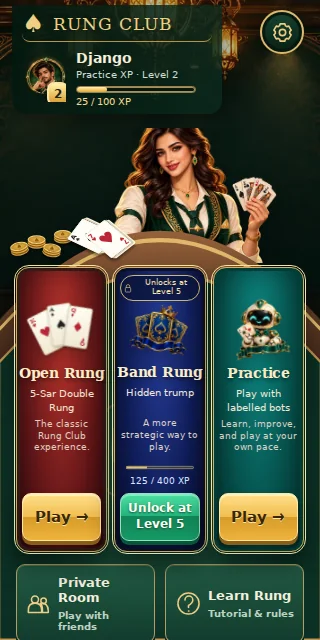
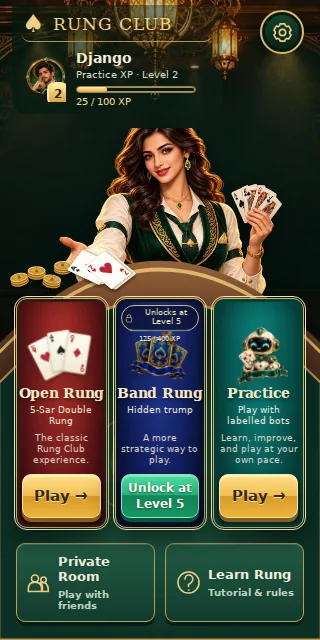
Match lobby reference proportions with compact cards and fuller dealer composition

diff --git a/tests/visual/lobby-redesign.spec.ts b/tests/visual/lobby-redesign.spec.ts
@@ -2,4 +2,4 @@ import {test as base,expect} from '@playwright/test';
 import fs from 'node:fs';
 const test=process.env.BROWSER_EXECUTABLE_PATH?base.extend({context:async({playwright},use)=>{const browser=await playwright.chromium.launch({executablePath:process.env.BROWSER_EXECUTABLE_PATH,args:['--no-sandbox','--disable-dev-shm-usage','--disable-gpu','--single-process','--no-zygote','--disable-software-rasterizer']});const context=await browser.newContext({baseURL:'http://127.0.0.1:5173'});await use(context);await browser.close();}}):base;
 const out='docs/art/qa-lobby-redesign';fs.mkdirSync(out,{recursive:true});
-for(const [width,height] of [[1920,1080],[1366,768],[412,924],[390,844],[360,800],[320,640],[844,390],[932,430]])test(`lobby redesigned ${width}x${height}`,async({page})=>{await page.addInitScript(()=>{localStorage.setItem('welcome','1');localStorage.setItem('profile',JSON.stringify({name:'Django',xp:125,matches:4,wins:2}));});await page.setViewportSize({width,height});await page.goto('/');await page.getByRole('button',{name:'Play as a Guest'}).click();await expect(page.locator('.game-tile')).toHaveCount(3);await expect(page.locator('.club-banner')).toHaveCount(0);await expect(page.getByRole('progressbar',{name:'Level progress'})).toHaveAttribute('aria-valuenow','25');await expect(page.getByRole('progressbar',{name:'Band Rung unlock progress'})).toHaveAttribute('value','125');await expect.poll(()=>page.locator('.lobby-mode-art').evaluateAll((els:HTMLImageElement[])=>els.every(img=>img.complete&&img.naturalWidth>0))).toBe(true);await page.mouse.move(0,0);await page.waitForTimeout(350);await page.screenshot({path:`${out}/${width}x${height}.png`,fullPage:true});expect(await page.evaluate(()=>document.documentElement.scrollWidth<=innerWidth&&document.documentElement.scrollHeight<=innerHeight+1)).toBe(true);await expect(page.locator('.lobby-arrangement')).toHaveCSS('overflow-x','visible');const surface=await page.locator('.lobby-table-front').boundingBox();expect(surface!.x).toBeLessThanOrEqual(1);expect(surface!.x+surface!.width).toBeGreaterThanOrEqual(width-1);for(const card of await page.locator('.table-deck img').all()){const box=await card.boundingBox();expect(box!.x).toBeGreaterThanOrEqual(0);expect(box!.y+box!.height).toBeLessThanOrEqual(height-4);}for(const art of await page.locator('.lobby-mode-art').all())expect((await art.boundingBox())!.height).toBeGreaterThan(45);for(const title of await page.locator('.mode-tile h2').all()){const b=await title.boundingBox(),panel=await title.locator('..').locator('..').boundingBox();expect(b!.x).toBeGreaterThanOrEqual(panel!.x-1);expect(b!.x+b!.width).toBeLessThanOrEqual(panel!.x+panel!.width+1);}for(const description of await page.locator('.mode-description').all())await expect(description).toBeVisible();for(const name of ['Play Open Rung','Unlock Level 5','Practice table']){const button=page.getByRole('button',{name,exact:true});await expect(button).toBeInViewport();expect((await button.boundingBox())!.height).toBeGreaterThanOrEqual(44);}for(const name of ['Your profile','Settings','Learn the art of Rung'])await expect(page.getByRole('button',{name,exact:true})).toBeInViewport();await expect(page.getByRole('button',{name:'Private Room',exact:false})).toBeInViewport();const host=await page.locator('.lobby-host .dealer').boundingBox();expect(host!.width).toBeGreaterThan(100);await page.getByRole('button',{name:'Unlock Level 5',exact:true}).click();await expect(page.getByRole('dialog',{name:'Band Rung locked'})).toBeVisible();await page.getByRole('button',{name:'Back to the lobby',exact:true}).click();await page.getByRole('button',{name:'Private Room',exact:false}).click();await expect(page.getByLabel('Room code')).toBeVisible();});
+for(const [width,height] of [[1920,1080],[1366,768],[412,924],[390,844],[360,800],[320,640],[844,390],[932,430]])test(`lobby redesigned ${width}x${height}`,async({page})=>{await page.addInitScript(()=>{localStorage.setItem('welcome','1');localStorage.setItem('profile',JSON.stringify({name:'Django',xp:125,matches:4,wins:2}));});await page.setViewportSize({width,height});await page.goto('/');await page.getByRole('button',{name:'Play as a Guest'}).click();await expect(page.locator('.game-tile')).toHaveCount(3);await expect(page.locator('.club-banner')).toHaveCount(0);await expect(page.getByRole('progressbar',{name:'Level progress'})).toHaveAttribute('aria-valuenow','25');await expect(page.getByRole('progressbar',{name:'Band Rung unlock progress'})).toHaveAttribute('value','125');await expect.poll(()=>page.locator('.lobby-mode-art').evaluateAll((els:HTMLImageElement[])=>els.every(img=>img.complete&&img.naturalWidth>0))).toBe(true);await page.mouse.move(0,0);await page.waitForTimeout(350);await page.screenshot({path:`${out}/${width}x${height}.png`,fullPage:true});expect(await page.evaluate(()=>document.documentElement.scrollWidth<=innerWidth&&document.documentElement.scrollHeight<=innerHeight+1)).toBe(true);await expect(page.locator('.lobby-arrangement')).toHaveCSS('overflow-x','visible');const surface=await page.locator('.lobby-table-front').boundingBox();expect(surface!.x).toBeLessThanOrEqual(1);expect(surface!.x+surface!.width).toBeGreaterThanOrEqual(width-1);for(const card of await page.locator('.table-deck img').all()){const box=await card.boundingBox();expect(box!.x).toBeGreaterThanOrEqual(0);expect(box!.y+box!.height).toBeLessThanOrEqual(height-4);}if(width<=600){for(const tile of await page.locator('.game-tile').all()){const box=await tile.boundingBox();expect(box!.height/box!.width).toBeLessThan(2.65);expect(box!.height).toBeLessThan(height*.37);}}for(const art of await page.locator('.lobby-mode-art').all())expect((await art.boundingBox())!.height).toBeGreaterThan(45);for(const title of await page.locator('.mode-tile h2').all()){const b=await title.boundingBox(),panel=await title.locator('..').locator('..').boundingBox();expect(b!.x).toBeGreaterThanOrEqual(panel!.x-1);expect(b!.x+b!.width).toBeLessThanOrEqual(panel!.x+panel!.width+1);}for(const description of await page.locator('.mode-description').all())await expect(description).toBeVisible();for(const name of ['Play Open Rung','Unlock Level 5','Practice table']){const button=page.getByRole('button',{name,exact:true});await expect(button).toBeInViewport();expect((await button.boundingBox())!.height).toBeGreaterThanOrEqual(44);}for(const name of ['Your profile','Settings','Learn the art of Rung'])await expect(page.getByRole('button',{name,exact:true})).toBeInViewport();await expect(page.getByRole('button',{name:'Private Room',exact:false})).toBeInViewport();const host=await page.locator('.lobby-host .dealer').boundingBox();expect(host!.width).toBeGreaterThan(100);await page.getByRole('button',{name:'Unlock Level 5',exact:true}).click();await expect(page.getByRole('dialog',{name:'Band Rung locked'})).toBeVisible();await page.getByRole('button',{name:'Back to the lobby',exact:true}).click();await page.getByRole('button',{name:'Private Room',exact:false}).click();await expect(page.getByLabel('Room code')).toBeVisible();});

diff --git a/apps/web/lobby.css b/apps/web/lobby.css
@@ -110,3 +110,39 @@
 @media(max-width:360px){.screen-lobby .lobby .game-tile h2{font-size:16px;letter-spacing:-.5px}}
 @media(max-width:340px){.screen-lobby .lobby .game-tile h2{font-size:14px;letter-spacing:-.3px}.screen-lobby .lobby .game-tile .mode-description{font-size:9px}}
 @media(max-height:550px) and (min-width:601px){.screen-lobby .lobby .game-tile .mode-description{display:block;font-size:9px;line-height:1.25;min-height:23px;margin:2px 0}}
+/* Reference proportions: card height follows its width, never spare viewport height. */
+@media(max-width:600px){
+ .screen-lobby .lobby-arrangement{--mode-card-height:clamp(230px,67vw,286px);--host-height:clamp(100px,calc(100dvh - var(--mode-card-height) - 244px),470px)}
+ .screen-lobby .lobby-host>.dealer{width:min(94vw,390px);max-width:100%;height:calc(var(--host-height) + 48px);bottom:-24px;left:52%}
+ .screen-lobby .lobby .game-menu{gap:8px}
+ .screen-lobby .lobby .game-tile{padding:5px 5px 9px;border-radius:11px}
+ .screen-lobby .lobby .mode-ribbon{position:absolute;top:6px;left:5px;right:5px;z-index:2}
+ .screen-lobby .lobby .band .mode-ribbon{width:auto;min-height:21px}
+ .screen-lobby .lobby .mode-tile{padding-top:22px;justify-content:flex-start}
+ .screen-lobby .lobby .lobby-mode-art{flex:1;max-height:125px;min-height:55px;width:112%;}
+ .screen-lobby .lobby .game-tile h2{margin:3px 0 4px;font-size:18px}
+ .screen-lobby .lobby .game-tile p{font-size:10px;min-height:25px;line-height:1.25}
+ .screen-lobby .lobby .game-tile .mode-description{font-size:10px;min-height:36px;margin:3px 0 5px;line-height:1.2}
+ .screen-lobby .lobby .mode-status{position:absolute;top:30px;left:9px;right:9px;min-height:0;margin:0;z-index:3}
+ .screen-lobby .lobby .mode-status progress{height:3px;margin-bottom:1px}
+ .screen-lobby .lobby .mode-status small{font-size:7px;text-shadow:0 1px 2px #000}
+ .screen-lobby .lobby .game-tile>.mode-play{height:44px;min-height:44px}
+ .screen-lobby .lobby .club-shortcuts{margin-top:15px}
+ .screen-lobby .lobby-identity{background:linear-gradient(90deg,#03180fbd,#082b1d40);box-shadow:none}
+}
+@media(max-width:360px){
+ .screen-lobby .lobby .game-tile h2{font-size:16px}
+ .screen-lobby .lobby .game-tile .mode-description{font-size:9px}
+}
+@media(max-width:340px){.screen-lobby .lobby .game-tile h2{font-size:14px}.screen-lobby .lobby .game-tile p{font-size:9px}}
+@media(max-height:550px) and (min-width:601px){
+ .screen-lobby .lobby-arrangement{grid-template-columns:28% minmax(0,1fr);gap:16px}
+ .screen-lobby .lobby-host>.dealer{width:300px;height:calc(100dvh - 62px);max-width:145%;bottom:8px}
+ .screen-lobby .lobby .game-menu{flex:0 1 270px}
+ .screen-lobby .lobby-play-area{justify-content:flex-end}
+}
+@media(min-width:1001px) and (min-height:551px){
+ .screen-lobby .lobby .game-menu{flex:0 1 560px}
+ .screen-lobby .lobby-play-area{justify-content:flex-end}
+ .screen-lobby .lobby-host>.dealer{height:min(620px,90%);width:135%;max-width:510px;bottom:45px}
+}

diff --git a/docs/art/LOBBY_REDESIGN_QA.md b/docs/art/LOBBY_REDESIGN_QA.md
@@ -42,3 +42,10 @@ The lobby now occupies `100dvh`, with mode artwork using the available height an
 Removed clipping at the inset lobby grid while retaining viewport-level bounds. The foreground table now fills the screen width and bottom edge; decorative cards sit above the lower boundary. Portrait layouts use compact mode cards and a larger dealer hero, with visible descriptions and smaller titles on narrow phones.
 
 All eight responsive browser cases passed: 1920×1080, 1366×768, 412×924, 390×844, 360×800, 320×640, 844×390 and 932×430. Checks cover full-width table, card decoration bounds, visible mode descriptions and titles, minimum 44px primary buttons, shortcut visibility, no outer scrolling, Band unlock and private-room navigation. Fresh desktop, portrait, landscape and small-phone screenshots are stored in qa-lobby-redesign. Production build and Capacitor asset synchronization passed. These are browser-emulated layouts, not physical Android-device tests. Gameplay and authentication logic were unchanged.
+
+
+## Mobile reference proportion correction
+
+Compared against the supplied Mobile Lobby Showcase(2) portrait and landscape reference. The previous cards were vertically stretched despite passing viewport checks. Portrait card height now follows screen width (230–286px), rather than viewport height; the 390px layout is about 261px tall instead of 322px. Reserved ribbon/progress spacing is compact, descriptions remain readable, and buttons retain 44px targets. The existing dealer is larger in portrait and landscape. Desktop panels are capped to avoid empty internal space.
+
+Eight responsive tests pass, including new mobile card aspect-ratio and viewport-height assertions. Production build and Capacitor sync pass. Screenshot evidence refreshed for desktop, portrait, landscape and 320px phones. Physical Android device testing remains outstanding. Existing source artwork is retained; this is a layout correction, not an exact recreation of the reference illustration.
